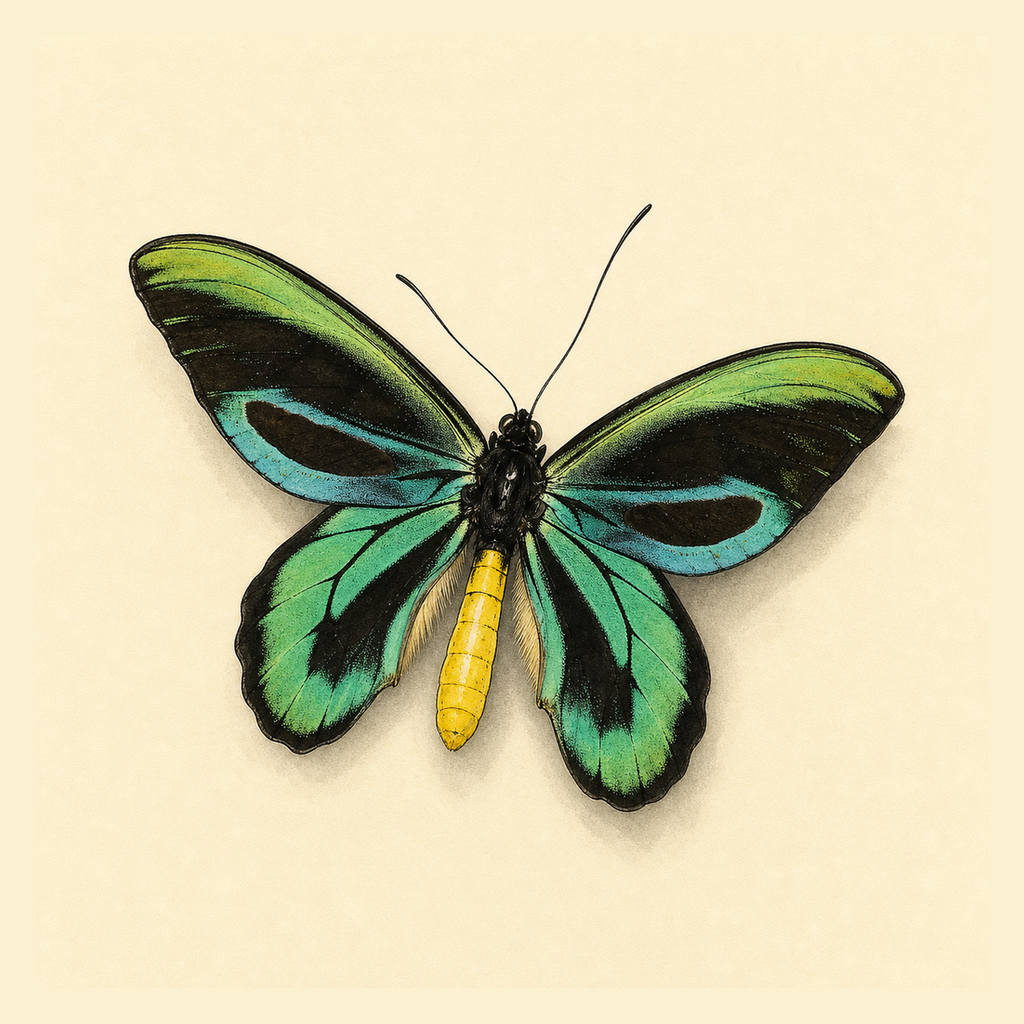
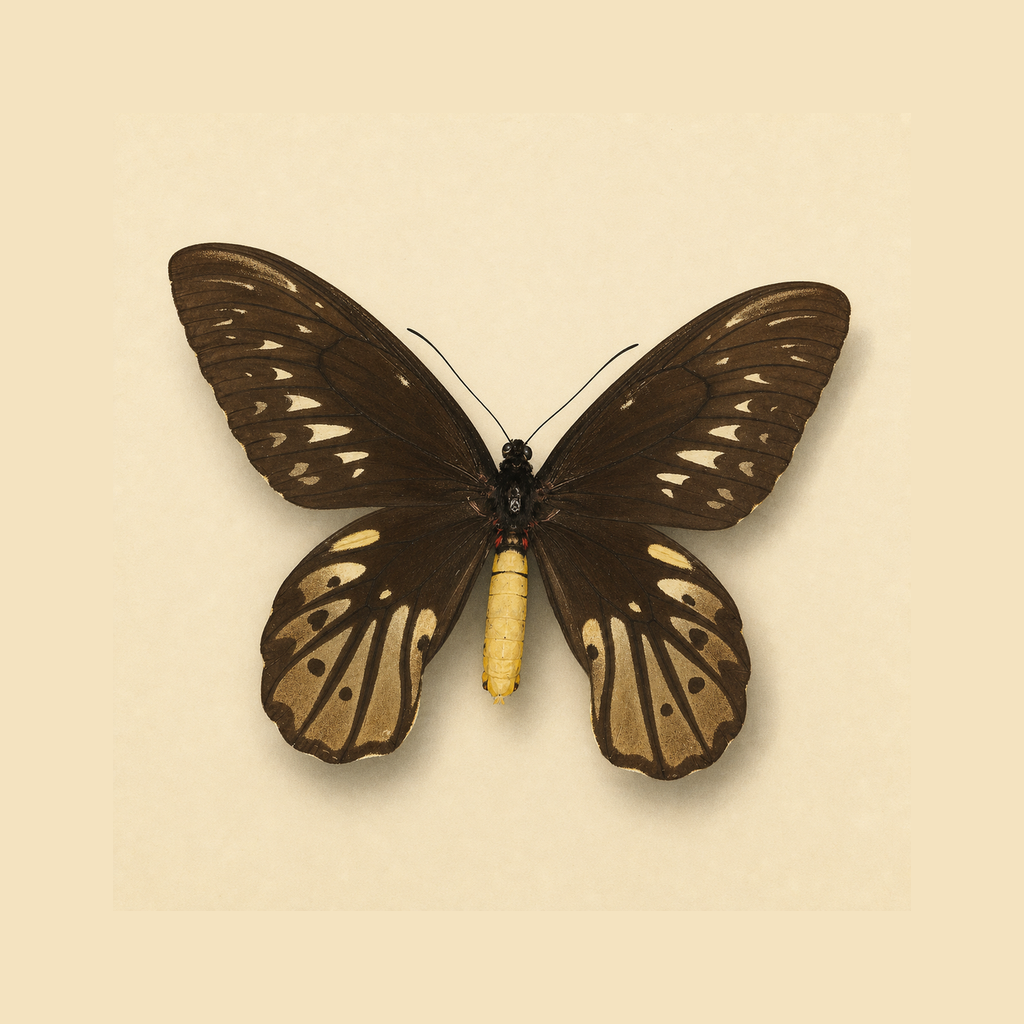
Use female Queen Alexandra's birdwing thumbnail

diff --git a/scripts/build_thumbnail_prompts.py b/scripts/build_thumbnail_prompts.py
@@ -52,7 +52,7 @@ ANATOMY = {
     "sunset-moth": "diurnal moth with iridescent rainbow wings showing bands of blue, green, gold, magenta, and crimson, long tails on hindwings, looks more like a butterfly",
     "bee-fly": "fluffy round bumblebee-mimicking fly, golden-orange and black fuzzy body, very long needle-like proboscis extending forward, large clear wings, hovering posture",
     "blue-morpho": "large butterfly with wings spread flat, upper wing surfaces brilliant iridescent metallic electric blue with thin black borders, slender dark body, antennae like fine clubbed wires, wings catch light with structural shimmer",
-    "queen-alexandras-birdwing": "large male birdwing (Ornithoptera alexandrae) held at a gentle 3/4 dorsal tilt with the long tapered forewings swept downward and curved inward (NOT spread flat corner-to-corner); forewings mostly black crossed by an iridescent yellow-green upper band and a blue-green lower band with a long black oval patch; broader scalloped hindwings emerald-green to turquoise divided by strong black radiating veins with broad black margins; long bright yellow segmented abdomen, black thorax, thin curved black antennae; drawn medium-sized (about 60 percent of frame) with even cream margin so the whole wingspan stays comfortably inside the circle",
+    "queen-alexandras-birdwing": "large female birdwing (Ornithoptera alexandrae), broad rounded wings held at a gentle 3/4 dorsal tilt with the long forewings swept downward and curved inward (NOT spread flat corner-to-corner); wings dark chocolate-brown overall with rows of pale cream and white arrowhead spots across both forewings and hindwings; hindwings with larger creamy-buff panels, dark veins, and rows of dark spots; thick bright yellow segmented abdomen, black thorax with a small red tuft, black head, thin curved black antennae; drawn medium-sized with even cream margin so the whole broad female wingspan stays comfortably inside the circle",
     "goliath-birdwing": "large male butterfly held at a gentle angle with wingtips curved inward and downward (NOT spread flat corner-to-corner), deep velvet black wings with brilliant neon yellow-green wedge patches on hindwings and forewing centers, golden-yellow body, broad muscular thorax, drawn SMALL in frame with generous cream margin so the wide wingspan stays well inside the circle",
     "apollo-butterfly": "medium butterfly with wings spread flat, translucent porcelain-white wings with smoky-gray veining, four prominent crimson-red eyespots ringed in black on the hindwings, white fluffy body, alpine elegance",
     "sylphina-angel": "small delicate butterfly with wings spread flat, forewings nearly transparent crystal-clear with dark veins, hindwings carry two slim ribbon-like crimson tail streamers trailing below, tiny dark body, ethereal almost weightless appearance",
